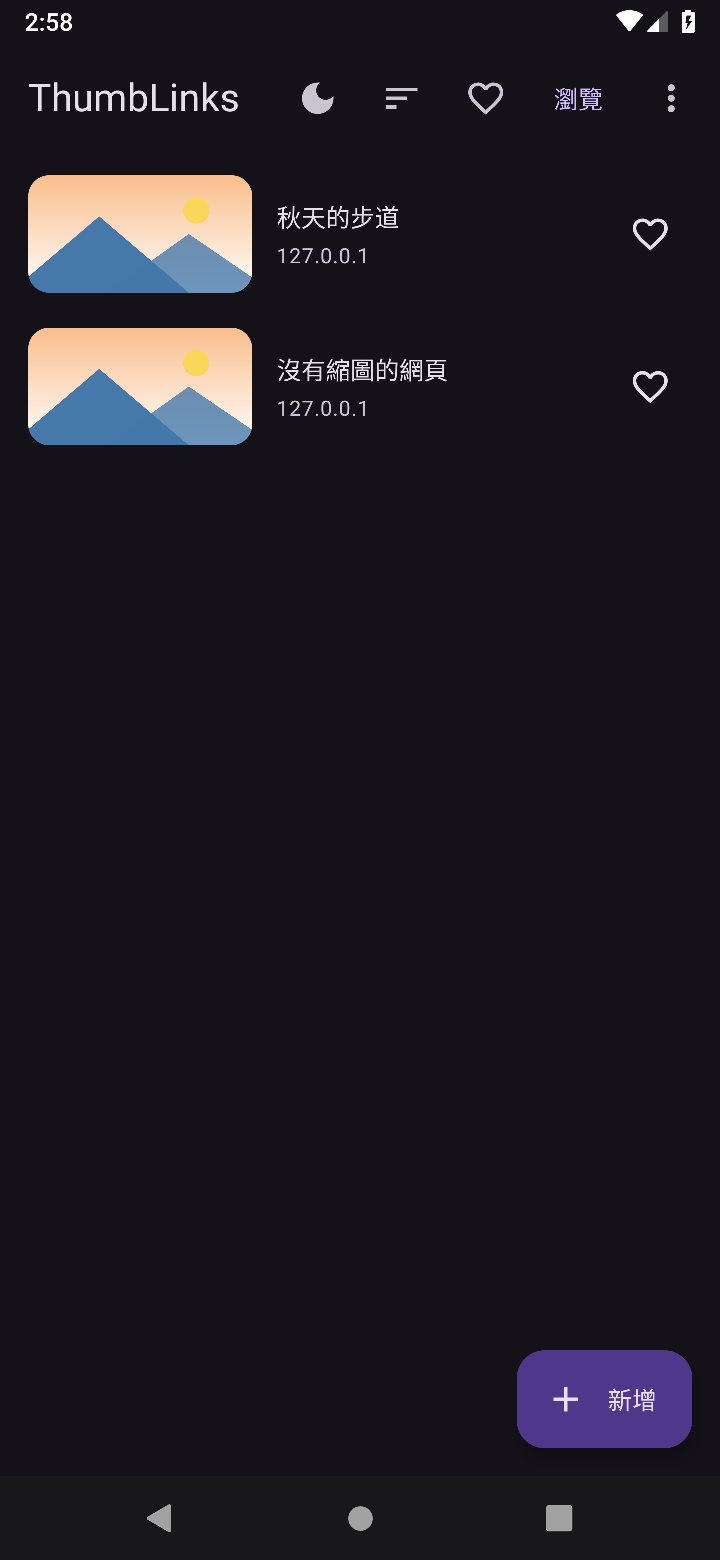
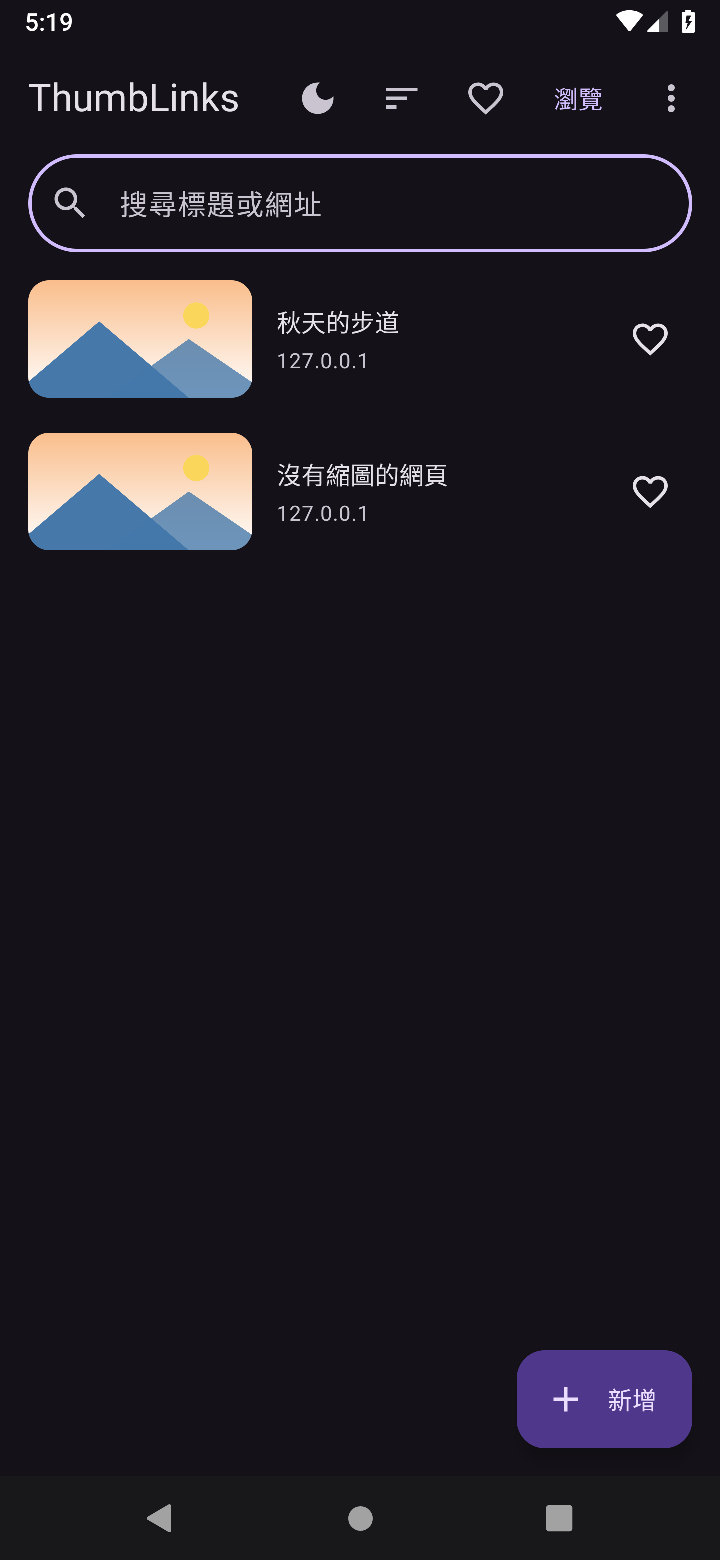
fix: 清單刪光或新的一筆被篩掉時清掉搜尋，錄影測試加搜尋與長按刪除
- Import 的 BOM 改成跳脫寫法，lint 不再報錯
- GeckoView 升到 160.0.20261104181552
- README 的截圖換成有搜尋框、長按選單有刪除的版本

diff --git a/app/src/androidTest/java/com/twtrubiks/thumblinks/DemoRecordingTest.kt b/app/src/androidTest/java/com/twtrubiks/thumblinks/DemoRecordingTest.kt
@@ -19,7 +19,7 @@ import kotlin.math.abs
  *
  * 貼網址 → 抓到縮圖與標題 → 改標題 → 加入；分享同一個網址進來 → 已經在清單裡了 → 打開那一筆；
  * 貼沒有縮圖的網址 → 貼圖片網址 → 加入；點一筆用內建瀏覽器打開（已在清單）→ 網址列換一篇 → 加到清單；
- * 長按 → 編輯 → 刪除一筆；右上角「更多」（匯入、匯出）→ 打開匯出；切成深色模式再切回來；排序換成舊的在上再換回來；按愛心、只看愛心；
+ * 搜尋 → 清除 → 再搜尋 → 長按選單刪除一筆 → 返回鍵清掉搜尋；右上角「更多」（匯入、匯出）→ 打開匯出；切成深色模式再切回來；排序換成舊的在上再換回來；按愛心、只看愛心；
  * 編輯頁與清單的長按選單複製網址。uBlock Origin 要連 AMO，不放在錄影裡（[BrowserTest]）。
  */
 @RunWith(AndroidJUnit4::class)
@@ -121,17 +121,42 @@ class DemoRecordingTest : UiTest() {
         pause(2000)
         assertEquals(listOf(FakeSite.AUTUMN_TITLE, FakeSite.PLAIN_TITLE, "陽明山芒草"), container.links.all().map { it.title })
 
-        // 長按跳選單 → 編輯 → 刪除一筆（要確認）
+        // 搜尋：打字就篩，只剩找得到的那一筆；按清除鈕看回全部
+        find(By.res("search_input")).click()
+        pause(800)
+        find(By.res("search_input")).text = "芒草"
+        waitGone(By.text(FakeSite.AUTUMN_TITLE))
+        waitFor(By.text("陽明山芒草"))
+        assertNull(device.findObject(By.text(FakeSite.PLAIN_TITLE)))
+        hideKeyboard()
+        pause(1500)
+        screenshot("11-search")
+        find(By.res("search_clear")).click()
+        waitFor(By.text(FakeSite.AUTUMN_TITLE))
+        waitFor(By.text(FakeSite.PLAIN_TITLE))
+        pause(1200)
+
+        // 再搜尋一次，長按那一筆 → 選單的「刪除」（要確認）→ 刪掉之後搜尋找不到了 → 返回鍵清掉搜尋，看回全部
+        find(By.res("search_input")).text = "芒草"
+        waitGone(By.text(FakeSite.AUTUMN_TITLE))
+        hideKeyboard()
         find(By.text("陽明山芒草")).longClick()
-        find(By.text("編輯")).click()
-        find(By.desc("刪除這一筆")).click()
+        waitFor(By.text("刪除"))
+        pause(1200)
+        find(By.text("刪除")).click()
         waitFor(By.text("刪除這一筆？"))
         pause(1500)
         screenshot("11-confirm-delete")
         find(By.text("刪除")).click()
+        waitFor(By.text("找不到「芒草」"))
+        pause(1500)
+        screenshot("11-search-no-match")
+        hideKeyboard()
+        device.pressBack()
         backOnList()
-        waitGone(By.text("陽明山芒草"))
-        pause(2000)
+        waitFor(By.text(FakeSite.AUTUMN_TITLE))
+        assertNull(device.findObject(By.text("陽明山芒草")))
+        pause(1500)
 
         // 右上角「更多」裡是匯入、匯出；打開匯出：選格式（存檔、開檔畫面是系統的，匯出再匯入回來在 SystemUiTest 測）
         find(By.res("more_button")).click()

diff --git a/app/src/main/java/com/twtrubiks/thumblinks/ListScreen.kt b/app/src/main/java/com/twtrubiks/thumblinks/ListScreen.kt
@@ -105,11 +105,18 @@ fun ListScreen(
     // 看起來像沒加進來：多了新的一筆（links 的第一筆換了、原本的還在）就捲到它
     var newest by rememberSaveable { mutableStateOf<String?>(null) }
     LaunchedEffect(links) {
-        if (links.isNullOrEmpty()) return@LaunchedEffect
+        if (links == null) return@LaunchedEffect
+        if (links.isEmpty()) {
+            // 清單刪光了，搜尋框跟著不見：搜尋的字一起清掉，不然返回鍵清的是看不到的字，之後加了新的一筆又冒出來
+            query = ""
+            return@LaunchedEffect
+        }
         val previous = newest
         val added = links.first().id
         newest = added
         if (previous != null && previous != added && links.any { it.id == previous }) {
+            // 新的那筆被搜尋篩掉了（例如搜尋到一半，從別的 App 分享一個網址進來）：清掉搜尋，才看得到它
+            if (!matchesSearch(links.first(), searchTerms(query))) query = ""
             val index = visibleLinks(links, order, favoritesOnly, query).indexOfFirst { it.id == added }
             if (index >= 0) listState.scrollToItem(index)
         }

diff --git a/app/src/main/java/com/twtrubiks/thumblinks/Import.kt b/app/src/main/java/com/twtrubiks/thumblinks/Import.kt
@@ -110,7 +110,7 @@ object Import {
 
     private fun text(input: InputStream): String {
         val bytes = input.use { it.readAtMost(MAX_TEXT) } ?: throw ImportException("檔案太大了，不像是 ThumbLinks 匯出的")
-        return bytes.toString(Charsets.UTF_8).removePrefix("")
+        return bytes.toString(Charsets.UTF_8).removePrefix("\uFEFF")
     }
 
     private fun json(text: String, zip: ZipFile?): ImportFile {

diff --git a/docs/testing.md b/docs/testing.md
@@ -44,6 +44,8 @@ classpath 用 init script 印出 `testDebugUnitTest` 的 `classpath.files`，把
 - BottomSheet、Dialog 是另一個視窗，App 根部開的 `testTagsAsResourceId` 管不到：要在裡面再開一次（uBO 的 popup 有開），或用 `By.text` 找
 - uBO 的 badge 一直在更新（換頁時先清掉再重算），讀字時元件可能已經舊了（`StaleObjectException`）
 - 開始前清空清單（`container.links`），要用到的資料都在測試裡建
+- 清單的搜尋框是 `search_input`（清除鈕 `search_clear`）。搜尋找不到時清單（`link_list`）不在畫面上，`backOnList()` 會等不到，
+  改等「找不到「…」」。確認刪除的對話框按鈕跟長按選單的「刪除」同字：先等對話框的標題出來再按
 - 鍵盤開著才按返回鍵收起（`hideKeyboard()`）——沒開的時候按返回鍵會離開那一頁
 
 ## 模擬器上的測試：DeviceTest

diff --git a/README.md b/README.md
@@ -11,7 +11,7 @@
 
 | 清單 | 新增 | 匯出 |
 | :-: | :-: | :-: |
-| <img src="docs/screenshots/list.png" width="240" alt="清單，長按一筆跳出選單"> | <img src="docs/screenshots/add.png" width="240" alt="新增頁，抓到縮圖和標題"> | <img src="docs/screenshots/export.png" width="240" alt="匯出，選 Markdown 或 JSON"> |
+| <img src="docs/screenshots/list.png" width="240" alt="清單，上面是搜尋框，長按一筆跳出選單（編輯、複製網址、刪除）"> | <img src="docs/screenshots/add.png" width="240" alt="新增頁，抓到縮圖和標題"> | <img src="docs/screenshots/export.png" width="240" alt="匯出，選 Markdown 或 JSON"> |
 
 | 內建瀏覽器 | uBlock Origin | 深色模式 |
 | :-: | :-: | :-: |
